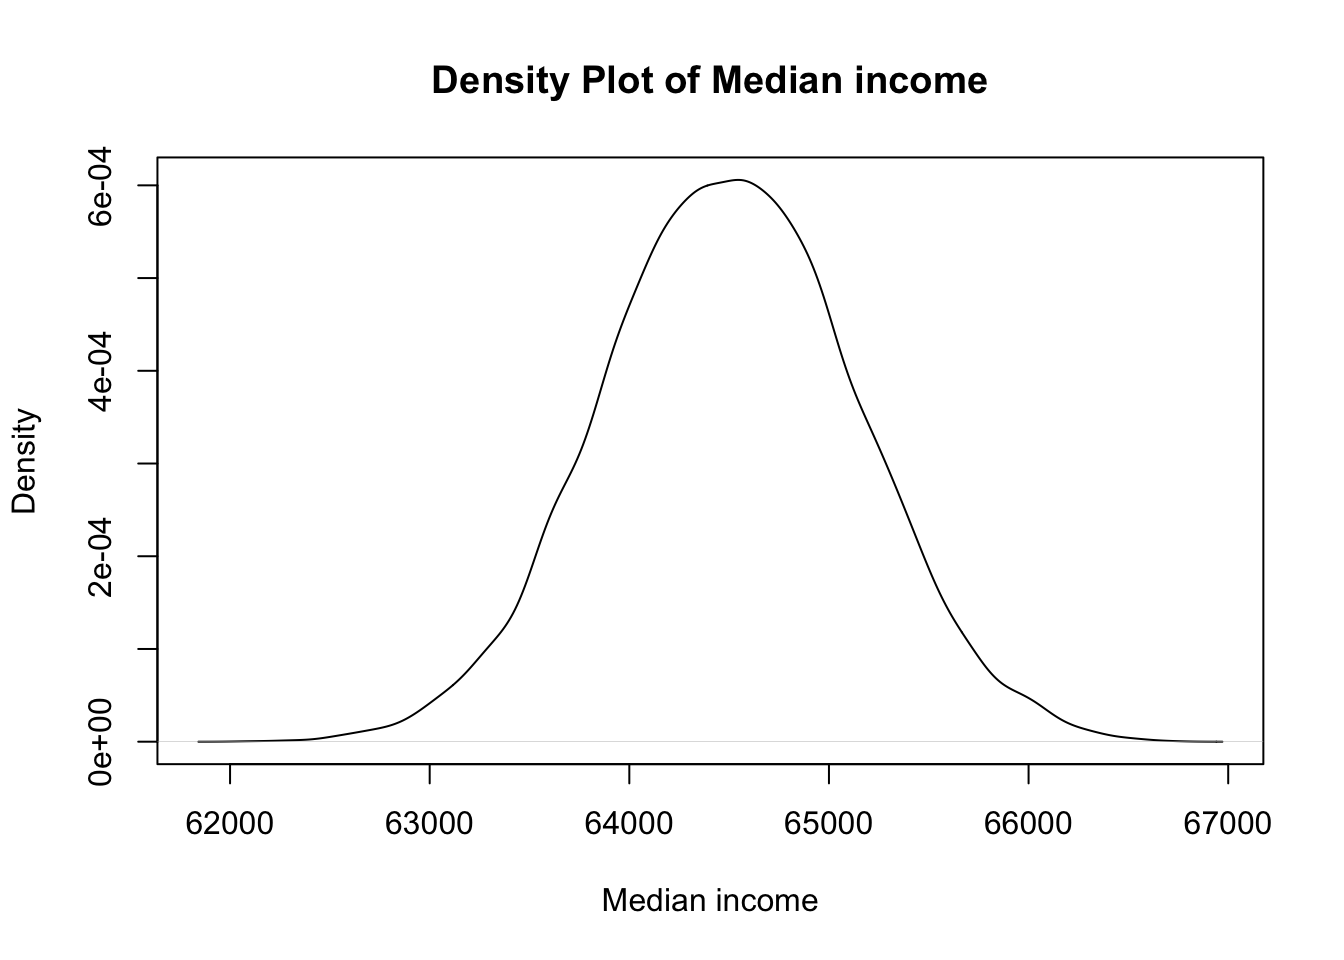
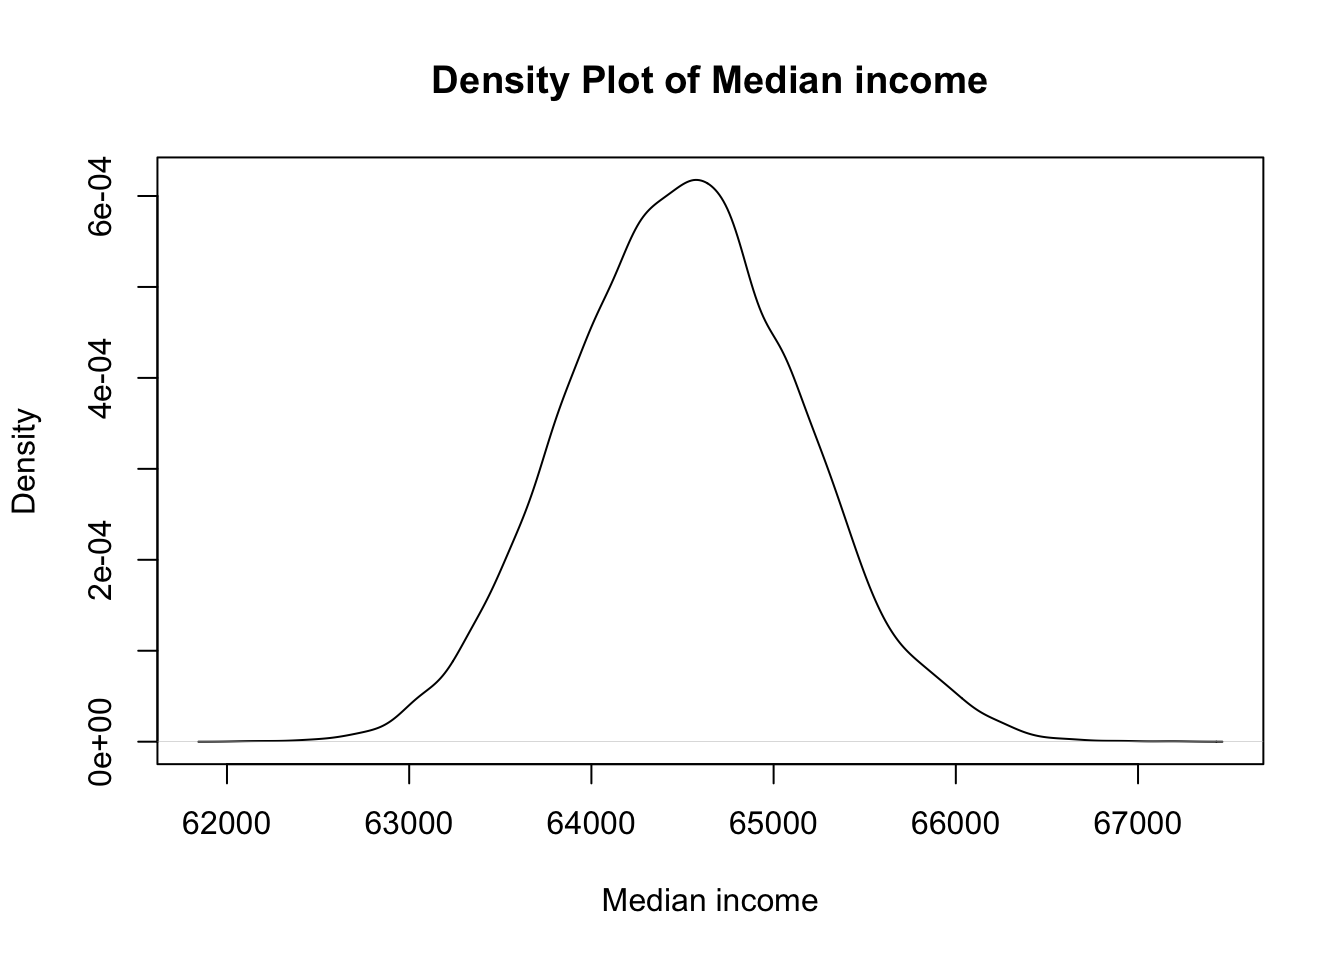
4131024

diff --git a/docs/posts/montecarlo.html b/docs/posts/montecarlo.html
@@ -1090,7 +1090,7 @@ Income distribution is not normal
 </details>
 <div class="cell-output cell-output-stdout">
 <pre><code>     Min.   1st Qu.    Median      Mean   3rd Qu.      Max. 
-   217006    296896    345063    721547    441937 644988561 </code></pre>
+   208187    297588    347275    557962    445446 280324412 </code></pre>
 </div>
 <details open="" class="code-fold">
 <summary>Code</summary>
@@ -1098,7 +1098,7 @@ Income distribution is not normal
 </details>
 <div class="cell-output cell-output-stdout">
 <pre><code>   Min. 1st Qu.  Median    Mean 3rd Qu.    Max. 
-  62113   64069   64503   64502   64930   66699 </code></pre>
+  62118   64068   64512   64513   64947   67188 </code></pre>
 </div>
 <details open="" class="code-fold">
 <summary>Code</summary>
@@ -1106,7 +1106,7 @@ Income distribution is not normal
 </details>
 <div class="cell-output cell-output-stdout">
 <pre><code>     Min.   1st Qu.    Median      Mean   3rd Qu.      Max. 
-1.065e+06 3.339e+06 5.772e+06 4.260e+07 1.203e+07 6.444e+10 </code></pre>
+9.303e+05 3.389e+06 5.850e+06 2.633e+07 1.256e+07 2.798e+10 </code></pre>
 </div>
 </div>
 </section>

diff --git a/docs/Catallactics/Personal/volatility.html b/docs/Catallactics/Personal/volatility.html
@@ -998,7 +998,7 @@ window.Quarto = {
 </tr>
 </tbody>
 </table>
-<p>Modern portfolio theory attempts to address this problem of volatility by diversification and proposes Sharpe ratio to evaluate the risk adjusted return of the portfolio. It reduces the downward volatility to some extend; but in doing so it also reduces the favourable upward movements, prescribing a cure costlier than the disease.</p>
+<p>Modern portfolio theory attempts to address the problem of volatility through diversification and proposes the Sharpe ratio to evaluate the risk-adjusted return of a portfolio. It reduces downward volatility to some extent, but in doing so, it also reduces favorable upward movements, prescribing a cure that may be costlier than the disease—ultimately leaving you in a zoo instead of a grand forest, out of fear.</p>
 <p>This takes us back to the fundamental law of investment: <strong>Never lose the principal.</strong> Try to achieve this without reducing the overall return, as you might otherwise end up poorer.</p>
 
 

diff --git a/docs/Biomedical/Research Methodology/wrangling.html b/docs/Biomedical/Research Methodology/wrangling.html
@@ -2389,8 +2389,8 @@ Record
 2:     2     0  child
 3:     3     1  child
 4:     4     0  child
-5:     5     1  child
-6:     6     0  child</code></pre>
+5:     5     0  child
+6:     6     1  child</code></pre>
 </div>
 </div>
 <section id="making-data-wide" class="level3">
@@ -2412,8 +2412,8 @@ Record
 2:     2  child   &lt;NA&gt;
 3:     3   &lt;NA&gt;  child
 4:     4  child   &lt;NA&gt;
-5:     5   &lt;NA&gt;  child
-6:     6  child   &lt;NA&gt;</code></pre>
+5:     5  child   &lt;NA&gt;
+6:     6   &lt;NA&gt;  child</code></pre>
 </div>
 </div>
 

diff --git a/docs/Revision notes/Diagrams/diagrams.html b/docs/Revision notes/Diagrams/diagrams.html
@@ -1380,7 +1380,7 @@ window.document.addEventListener("DOMContentLoaded", function (event) {
 </div>
   </div>
 </footer>
-<script>var lightboxQuarto = GLightbox({"openEffect":"zoom","descPosition":"bottom","closeEffect":"zoom","selector":".lightbox","loop":false});
+<script>var lightboxQuarto = GLightbox({"descPosition":"bottom","openEffect":"zoom","selector":".lightbox","loop":false,"closeEffect":"zoom"});
 (function() {
   let previousOnload = window.onload;
   window.onload = () => {
